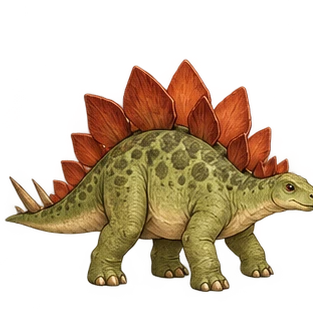
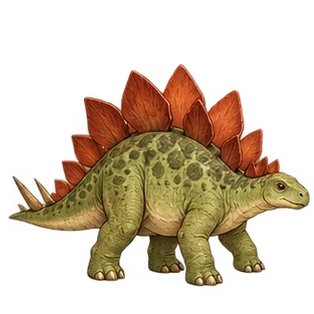
画像の確認と微修正
- ステゴサウルスの鼻先が切れ、トリケラトプス画像の左端に入っていたのを修正
- こども恐竜をおとなより少し小さく表示して成長がわかるように
- 狭い画面で「ふくしゅう」が途中で折り返すのを修正
- キャッシュのバージョンを更新

Claude-Session: https://claude.ai/code/session_017mowccw3kVppmiDYYFXnVD

Changed region(s): [[0.0, 0.1725, 1.0, 0.9489], [0.2013, 0.4888, 0.23, 0.5176]]

diff --git a/app.js b/app.js
@@ -124,7 +124,7 @@ try{speechSynthesis.getVoices();}catch(e){}
 const ART_ROOT="assets/art/";
 const GROW_ART=["egg","egg-cracked","baby","child","adult"];
 const art=(name,cls="",extra="")=>`<img class="game-art ${cls}" src="${ART_ROOT}${name}.webp" alt="" aria-hidden="true" draggable="false" width="314" height="314" ${extra}>`;
-const dinoArt=st=>art(GROW_ART[Math.max(0,Math.min(4,st))],"dino-art",'fetchpriority="high"');
+const dinoArt=st=>{const g=Math.max(0,Math.min(4,st));return art(GROW_ART[g],`dino-art g${g}`,'fetchpriority="high"');};
 const speciesArt=(id,locked=false)=>art(id,`species-art ${locked?"locked-sp":""}`);
 const starSVG=on=>`<svg viewBox="0 0 24 24" class="${on?"on":""}" aria-hidden="true"><path d="M12 2.5l2.9 6 6.6.9-4.8 4.6 1.2 6.5L12 17.4 6.1 20.5l1.2-6.5L2.5 9.4l6.6-.9z" fill="${on?"var(--sun)":"#e2dccb"}" stroke="${on?"#e0a400":"#cfc7b2"}" stroke-width="1.2" stroke-linejoin="round"/></svg>`;
 const starsRow=n=>`<span class="stars">${[1,2,3].map(i=>starSVG(n>=i)).join("")}</span>`;

diff --git a/style.css b/style.css
@@ -334,3 +334,12 @@ td.r,th.r{text-align:right}
   .area .scene{height:170px}
   .newfriend .game-art{width:88px;height:88px}
 }
+
+/* 成長の大きさの差: こども < おとな */
+.dino-art{transform-origin:50% 96%}
+.dino-art.g3{transform:scale(.84)}
+.tile > span{min-width:0;word-break:keep-all}
+@media(max-width:760px){
+  .tile{font-size:17px;padding:10px 12px;gap:8px}
+  .tile svg,.tile .journal-art{width:34px;height:34px}
+}

diff --git a/sw.js b/sw.js
@@ -1,6 +1,6 @@
 // きょうりゅう けいさん Service Worker
 // 更新したら VERSION を上げる
-const VERSION = "v5-image-art";
+const VERSION = "v6-image-art";
 const CACHE = "kyoryu-keisan-" + VERSION;
 const CORE = [
   "./",
